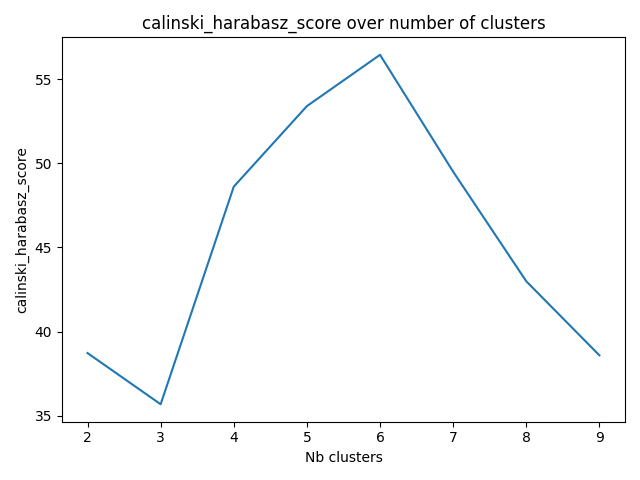
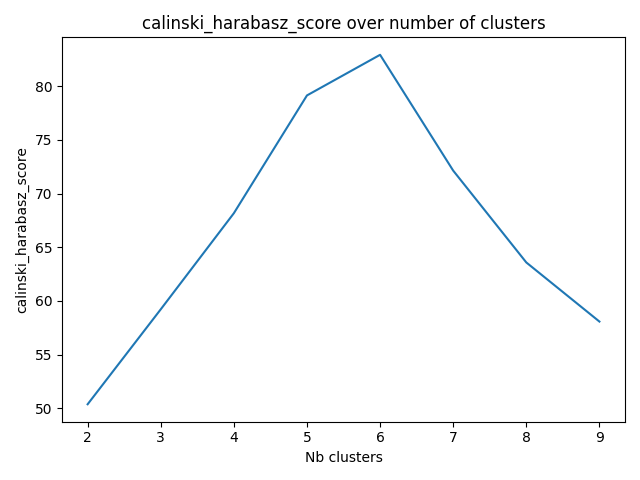
- Find out that our generated data is not suitable for fuzzy c-means

diff --git a/fcm.py b/fcm.py
@@ -1,0 +1,142 @@
+import numpy as np
+
+class FCM:
+    """Fuzzy C-means
+
+    Parameters
+    ----------
+    n_clusters: int, optional (default=10)
+        The number of clusters to form as well as the number of
+        centroids to generate
+    max_iter: int, optional (default=150)
+        Hard limit on iterations within solver.
+    m: float, optional (default=2.0)
+        Exponent for the fuzzy partition matrix, specified as a
+        scalar greater than 1.0. This option controls the amount of
+        fuzzy overlap between clusters, with larger values indicating
+        a greater degree of overlap.
+    error: float, optional (default=1e-5)
+        Tolerance for stopping criterion.
+    random_state: int, optional (default=42)
+        Determines random number generation for centroid initialization. Use
+        an int to make the randomness deterministic.
+    Attributes
+    ----------
+    n_samples: int
+        Number of examples in the data set
+    n_features: int
+        Number of features in samples of the data set
+    u: array, shape = [n_samples, n_clusters]
+        Fuzzy partition array, returned as an array with n_samples rows
+        and n_clusters columns. Element u[i,j] indicates the degree of
+        membership of the jth data point in the ith cluster. For a given
+        data point, the sum of the membership values for all clusters is one.
+    centers: array, shape = [n_class-1, n_SV]
+        Final cluster centers, returned as an array with n_clusters rows
+        containing the coordinates of each cluster center. The number of
+        columns in centers is equal to the dimensionality of the data being
+        clustered.
+    r: 
+    Container for the Mersenne Twister pseudo-random number generator.
+
+    Methods
+    -------
+    fit(X)
+        fit the data
+    _predict(X)
+        use fitted model and output cluster memberships
+    predict(X)
+        use fitted model and output 1 cluster for each sample
+    References
+    ----------
+    .. [1] `Pattern Recognition with Fuzzy Objective Function Algorithms
+        <https://doi.org/10.1007/978-1-4757-0450-1>`_
+    .. [2] `FCM: The fuzzy c-means clustering algorithm
+        <https://doi.org/10.1016/0098-3004(84)90020-7>`_
+    """
+
+    def __init__(self, n_clusters=10, max_iter=150, m=2, error=1e-5, random_state=42):
+        assert m > 1
+        self.u, self.centers = None, None
+        self.n_clusters = n_clusters
+        self.max_iter = max_iter
+        self.m = m
+        self.error = error
+        self.random_state = random_state
+
+    def fit(self, X):
+        """Compute fuzzy C-means clustering.
+        Parameters
+        ----------
+        X : array-like, shape = [n_samples, n_features]
+            Training instances to cluster.
+        """
+        self.n_samples = X.shape[0]
+        # u = np.random.dirichlet(np.ones(C), size=N)
+        r = np.random.RandomState(self.random_state)
+        u = r.rand(self.n_samples, self.n_clusters)
+        u = u / np.tile(u.sum(axis=1)[np.newaxis].T, self.n_clusters)
+
+        r = np.random.RandomState(self.random_state)
+        self.u = r.rand(self.n_samples, self.n_clusters)
+        self.u = self.u / np.tile(self.u.sum(axis=1)[np.newaxis].T, self.n_clusters)
+
+        for iteration in range(self.max_iter):
+            u_old = self.u.copy()
+
+            self.centers = self.next_centers(X)
+            self.u = self._predict(X)
+
+            # Stopping rule
+            if np.linalg.norm(self.u - u_old) < self.error:
+                break
+
+    def next_centers(self, X):
+        """Update cluster centers"""
+        um = self.u ** self.m
+        return (X.T @ um / np.sum(um, axis=0)).T
+
+    def _predict(self, X):
+        """ 
+        Parameters
+        ----------
+        X : array, shape = [n_samples, n_features]
+            New data to predict.
+        Returns
+        -------
+        u: array, shape = [n_samples, n_clusters]
+            Fuzzy partition array, returned as an array with n_samples rows
+            and n_clusters columns.
+        """
+        power = float(2 / (self.m - 1))
+        temp = np.sqrt(np.einsum('ijk->ij', (X[:, None, :] - self.centers) ** 2)) ** power
+        denominator_ = temp.reshape((X.shape[0], 1, -1)).repeat(temp.shape[-1], axis=1)
+        denominator_ = temp[:, :, np.newaxis] / denominator_
+
+        return 1 / denominator_.sum(2)
+
+    def predict(self, X):
+        """Predict the closest cluster each sample in X belongs to.
+
+        Parameters
+        ----------
+        X : array, shape = [n_samples, n_features]
+            New data to predict.
+        Returns
+        -------
+        labels : array, shape = [n_samples,]
+            Index of the cluster each sample belongs to.
+        """
+
+        if len(X.shape) == 1:
+            X = np.expand_dims(X, axis=0)
+
+        u = self._predict(X)
+        return np.argmax(u, axis=-1)
+
+    @property
+    def partition_coefficient(self):
+        if hasattr(self, 'u'):
+            return np.sum(self.u ** 2) / self.n_samples
+        else:
+            raise ReferenceError("You need to train the model first. You can use `.fit()` method to this.")

diff --git a/main.py b/main.py
@@ -1,6 +1,8 @@
 import numpy as np
 from scipy.spatial.distance import cdist
+from sklearn.decomposition import PCA
 
+from matplotlib import pyplot as plt
 from clustering import clustering, evaluate_clustering, fzclustering
 from generate_data import generate_skills, generate_graph
 from misc import plot_graph
@@ -44,10 +46,24 @@ def use_case_fuzzy_cmean(users_skills, clusters_ground_truth):
 
     users_distances_to_centers = cdist(
         users_skills, fuzzyclustering_model[0], metric=distance_function)
-    # print(evaluate_clustering(clusters_ground_truth, fuzzyclustering_model[1]))
+    print(" Evluate clsutering fuzzy ", evaluate_clustering(clusters_ground_truth, fuzzyclustering_model[1]))
+
+    pca = PCA(n_components=2)
+
+    pca.fit(users_skills)
+    new_data = pca.transform(users_skills)
+
+    pca.fit(fuzzyclustering_model[0])
+    new_data2 = pca.transform(fuzzyclustering_model[0])
+    c = np.concatenate((fuzzyclustering_model[1], np.array([6] * 6)))
+    new_data = np.concatenate((new_data, new_data2), axis=0)
+
+    plt.scatter(new_data.T[0], new_data.T[1], c=c, alpha=0.5)
+    plt.show()
+
 
     # print("Plotting graph")
-    plot_graph(G, "Clustered_graph_fuzzy.png", colors=fuzzyclustering_model[7])
+    plot_graph(G, "Clustered_graph_fuzzy.png", colors=fuzzyclustering_model[1])
 
 
 def use_case_kmeans(users_skills, clusters_ground_truth):
@@ -58,7 +74,20 @@ def use_case_kmeans(users_skills, clusters_ground_truth):
 
     users_distances_to_centers = cdist(
         users_skills, clustering_model.cluster_centers_, metric=distance_function)
-    evaluate_clustering(clusters_ground_truth, clustering_model.labels_)
+    print("Kmenas mujtual score", evaluate_clustering(clusters_ground_truth, clustering_model.labels_))
+
+    # pca = PCA(n_components=2)
+    #
+    # pca.fit(users_skills)
+    # new_data = pca.transform(users_skills)
+    #
+    # pca.fit(clustering_model.cluster_centers_)
+    # new_data2 = pca.transform(clustering_model.cluster_centers_)
+    # c = np.concatenate((clustering_model.labels_, np.array([6] * 6)))
+    # new_data = np.concatenate((new_data, new_data2), axis=0)
+    #
+    # plt.scatter(new_data.T[0], new_data.T[1], c=c, alpha=0.5)
+    # plt.show()
 
     # print("Plotting graph")
     plot_graph(G, "Clustered_graph_K-Means.png", colors=clustering_model.labels_)
@@ -68,11 +97,22 @@ if __name__ == '__main__':
     print("Generating skills")
     users_skills, clusters_ground_truth = generate_skills(
         skills_sets, N, min_skill_sets, max_skill_sets, min_edits, max_edits)
+
+    # pca = PCA(n_components=2)
+    # pca.fit(users_skills)
+    # new_data = pca.transform(users_skills)
+    # plt.scatter(new_data.T[0], new_data.T[1].T,  c=clusters_ground_truth, alpha=0.5)
+    # plt.show()
+
+    # print('pcaexplaned userskills', pca.explained_variance_ratio_)
+    # print('singular values', pca.singular_values_)
+
+
     print("Generating graph")
     G = generate_graph(clusters_ground_truth)
 
     # print("Using KMeans")
-    use_case_kmeans(users_skills, clusters_ground_truth)
+    #use_case_kmeans(users_skills, clusters_ground_truth)
 
     # print("Using Fuzzy C-Means")
     use_case_fuzzy_cmean(users_skills, clusters_ground_truth)

diff --git a/clustering.py b/clustering.py
@@ -118,7 +118,7 @@ def fzclustering(users_skills, n_clusters_range, plot=False):
         fcm_centers = fuzzy_fcm.centers
         fcm_labels = fuzzy_fcm.predict(X)
 
-        fuzzy_clustering_coeff = fuzzy_part_coeff(fcm_centers)
+        fuzzy_clustering_coeff = fuzzy_part_coeff(np.transpose(fuzzy_fcm.u))
 
         fpcs_2.append(fuzzy_clustering_coeff)
 
@@ -127,6 +127,7 @@ def fzclustering(users_skills, n_clusters_range, plot=False):
         print("")
 
     best_nun_cluster_1 = max(fzmodels_1.values(), key=lambda x: x[6])
+
     best_centers_2 = max(fzmodels_2.values(), key=lambda x: x[2])
     print("")
     if plot:
@@ -140,4 +141,4 @@ def fzclustering(users_skills, n_clusters_range, plot=False):
         plt.savefig(f"clustering_Fuzzy_1.png")
         plt.close()
 
-    return best_nun_cluster_1
+    return fzmodels_2[6]
